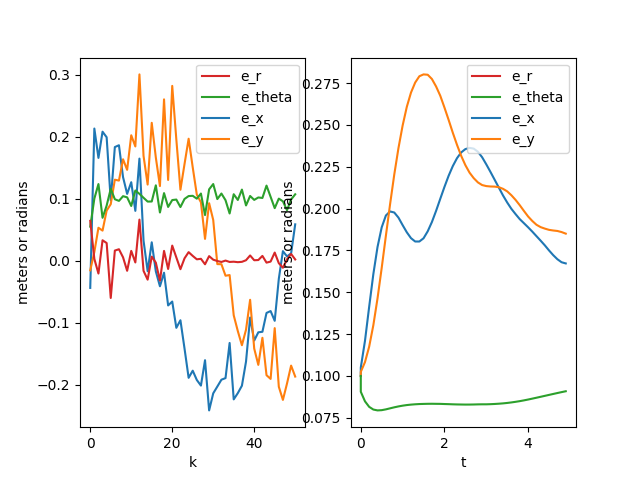
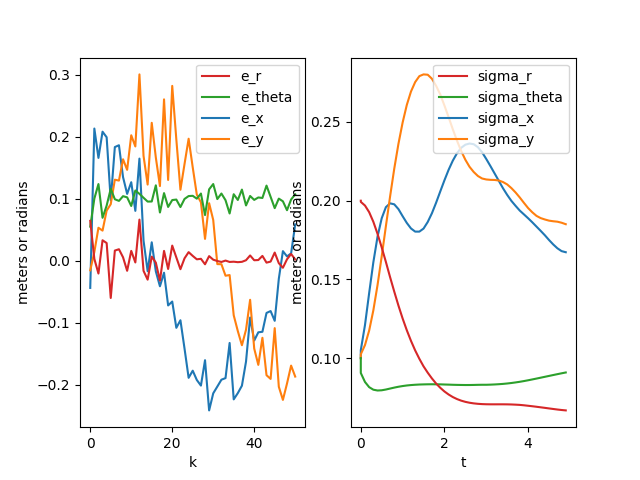
q4 code finished

diff --git a/HW9/shape_fit_ori.py b/HW9/shape_fit_ori.py
@@ -23,8 +23,7 @@ def shape(p, q, x):
 s = 10
 
 # true shape parameter (i.e. a symmetric cup)
-x_true = np.array([1.2, 1.3, 1, 1, 1, 1])
-P = np.diag([16, 16, 16, 16, 16, 16])      # initial prior
+x_true = np.array([1, 1, 0, 0, 0, 0])
 
 # plot true
 test = shape(np.array([-s]), np.array([s]), x_true)
@@ -44,21 +43,19 @@ surface = ax.plot_surface(S1, S2, gt, cmap=cm.jet, linewidth=0,
 std = 20
 
 # number of measurements
-k = 2
-x = x_true
-for i in range(int(8/k)):
-    # generate random measurements
-    p = 4 * s * (np.random.rand(k) - 0.5)
-    q = 4 * s * (np.random.rand(k) - 0.5)
-    z = shape(p, q, x_true) + np.random.randn(k) * std
+k = 8
 
-    # estimate optimal parameters x
-    R = np.diag(np.ones(k) * std**2)
-    H = shape_basis(p, q)
-    P = np.linalg.inv(np.linalg.inv(P) + np.transpose(H) @ np.linalg.inv(R)
-                      @ H)
-    K = P @ np.transpose(H) @ np.linalg.inv(R)
-    x = x + K @ (z - H @ x)
+# generate random measurements
+p = 4 * s * (np.random.rand(k) - 0.5)
+q = 4 * s * (np.random.rand(k) - 0.5)
+z = shape(p, q, x_true) + np.random.randn(k) * std
+
+# estimate optimal parameters x
+R = np.diag(np.ones(k) * std**2)
+H = shape_basis(p, q)
+x = np.linalg.inv(np.transpose(H) @ np.linalg.inv(R) @
+                  H) @ np.transpose(H) @ np.linalg.inv(R) @ z
+print(x.shape)
 
 # plot estimated
 ge = np.zeros((S1.shape[0], S1.shape[1]))
@@ -69,5 +66,4 @@ surface = ax.plot_surface(S1, S2, ge, cmap=cm.jet, linewidth=0,
                           antialiased=False, alpha=0.8)
 
 
-# print(xs.shape)
 plt.show()

diff --git a/HW9/uni_ekf_test.py b/HW9/uni_ekf_test.py
@@ -234,10 +234,12 @@ ax2[1].plot(ts, np.reshape(np.sqrt(Ps[0, 0, :]), Ps.shape[2]), label="sigma_x")
 ax2[1].plot(ts, np.reshape(np.sqrt(Ps[1, 1, :]), Ps.shape[2]), label="sigma_y")
 ax2[1].plot(ts, np.reshape(np.sqrt(Ps[2, 2, :]),
             Ps.shape[2]), label="sigma_theta")
+ax2[1].plot(ts, np.reshape(np.sqrt(Ps[3, 3, :]),
+            Ps.shape[2]), label="sigma_r")
 
 ax2[1].set_xlabel('t')
 ax2[1].set_ylabel('meters or radians')
-handles, labels = ax2[0].get_legend_handles_labels()
+handles, labels = ax2[1].get_legend_handles_labels()
 labels, handles = zip(*sorted(zip(labels, handles), key=lambda t: t[0]))
 ax2[1].legend(handles, labels)
 
